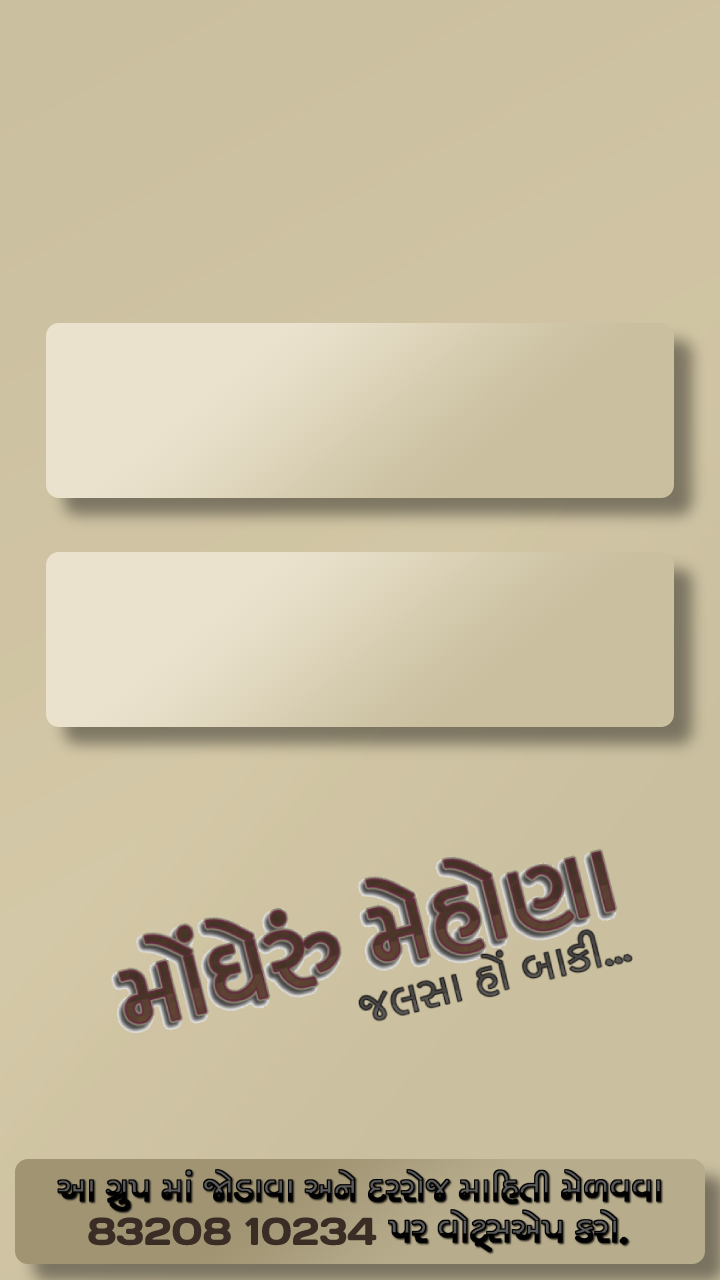
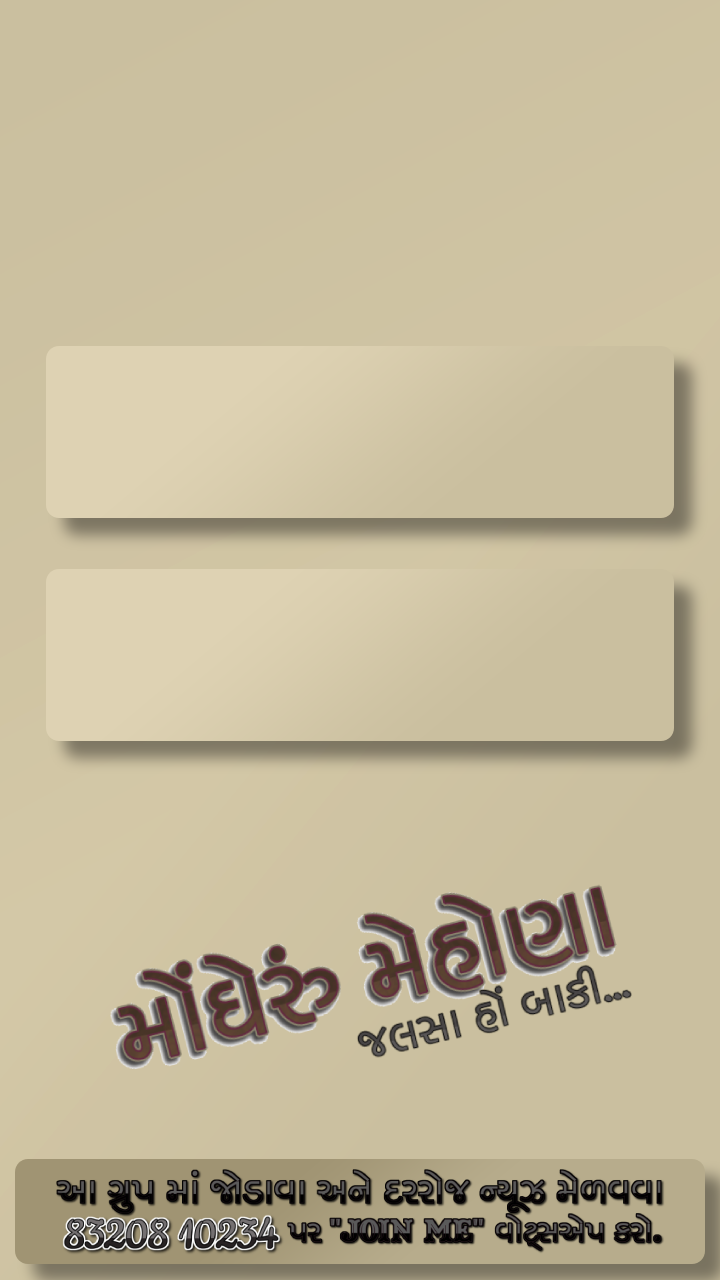
Image changed

diff --git a/index.html b/index.html
@@ -25,9 +25,11 @@
     <button href="#" class="single swith_button" onclick="singleImage('single')">1</button>
     <button href="#" class="double swith_button" onclick="singleImage('double')">2</button>
     <button href="#" class="tripal swith_button" onclick="singleImage('tripal')">3</button>
-    <button href="#" class="mrng swith_button" onclick="setHeader('Morning', 170)">Morning</button>
-    <button href="#" class="noon swith_button" onclick="setHeader('Noon', 190)">Noon</button>
-    <button href="#" class="evening swith_button" onclick="setHeader('Evening', 180)">Evening</button>
+    <button href="#" class="mrng swith_button" onclick="setHeader('Morning Updates', 170)">Morning</button>
+    <button href="#" class="noon swith_button" onclick="setHeader('Noon Updates', 190)">Noon</button>
+    <button href="#" class="evening swith_button" onclick="setHeader('Evening Updates', 180)">Evening</button>
+    <button href="#" class="breaking swith_button" onclick="setHeader('Breaking News', 190)">Breaking</button>
+    <button href="#" class="header swith_button" onclick="setHeader('', 190)">Header</button>
     <script
       type="text/javascript"
       src="./dist/fabric-v4.2.0.js"
@@ -108,7 +110,7 @@
       }
 
       function setHeader(title, x) {
-        setTimeout(() => { imageEditor.addText(title + ' Updates', {
+        setTimeout(() => { imageEditor.addText(title, {
           styles: {
             fill: '#2a2a2a',
             fontSize: 50,

diff --git a/dist/my.css b/dist/my.css
@@ -31,3 +31,9 @@
 .evening {
   left: 545px;
 }
+.breaking {
+  left: 620px;
+}
+.header {
+  left: 700px;
+}
